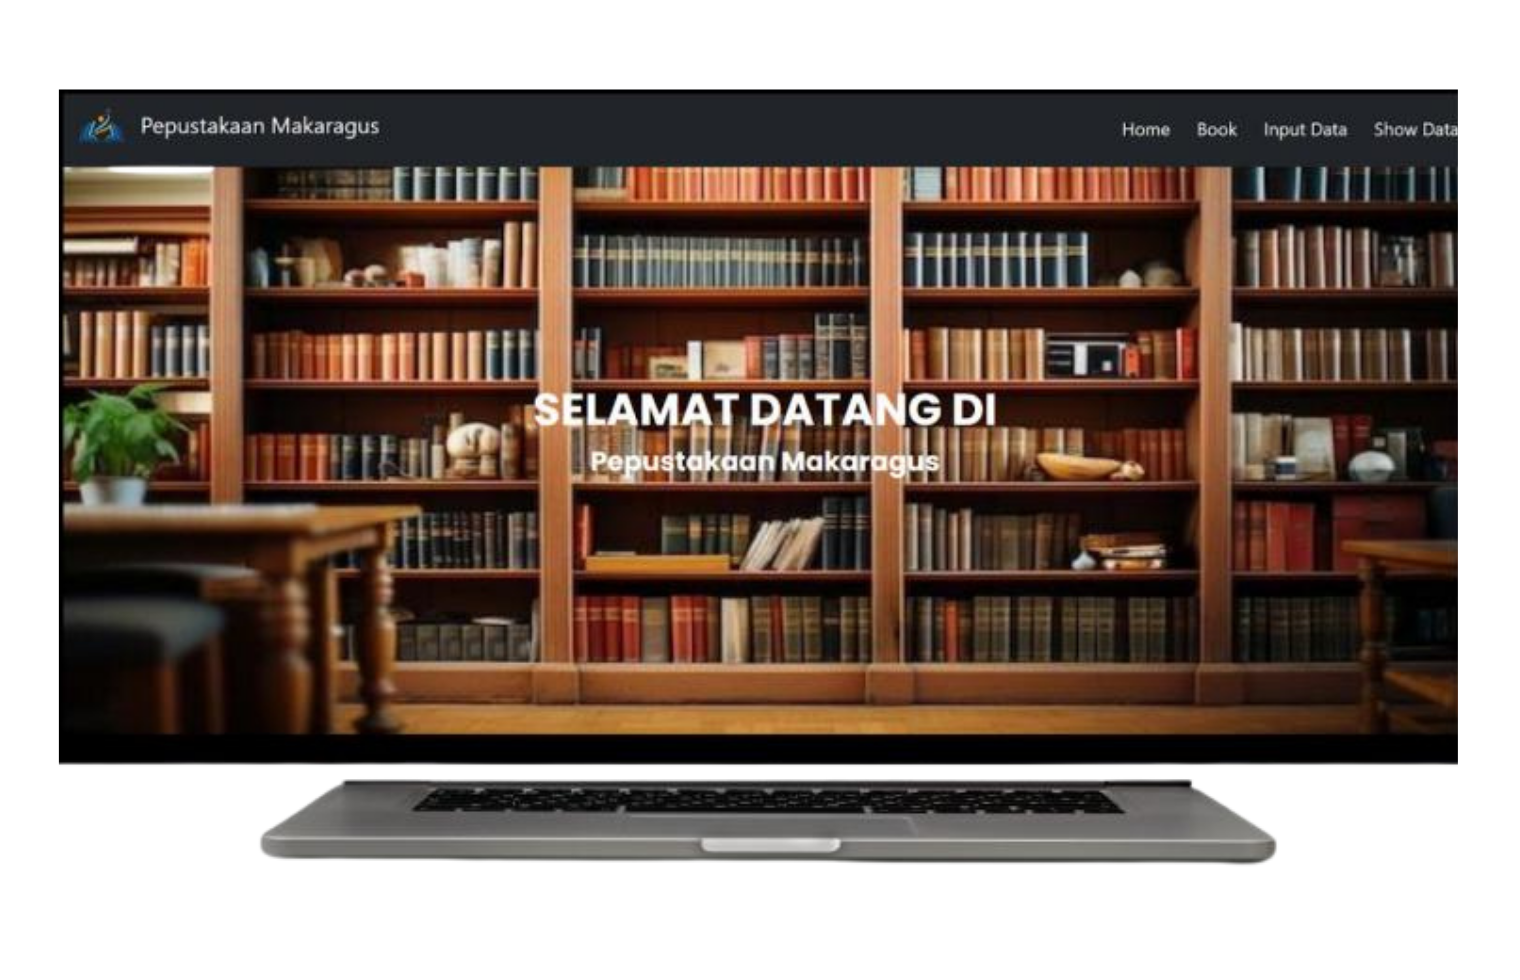
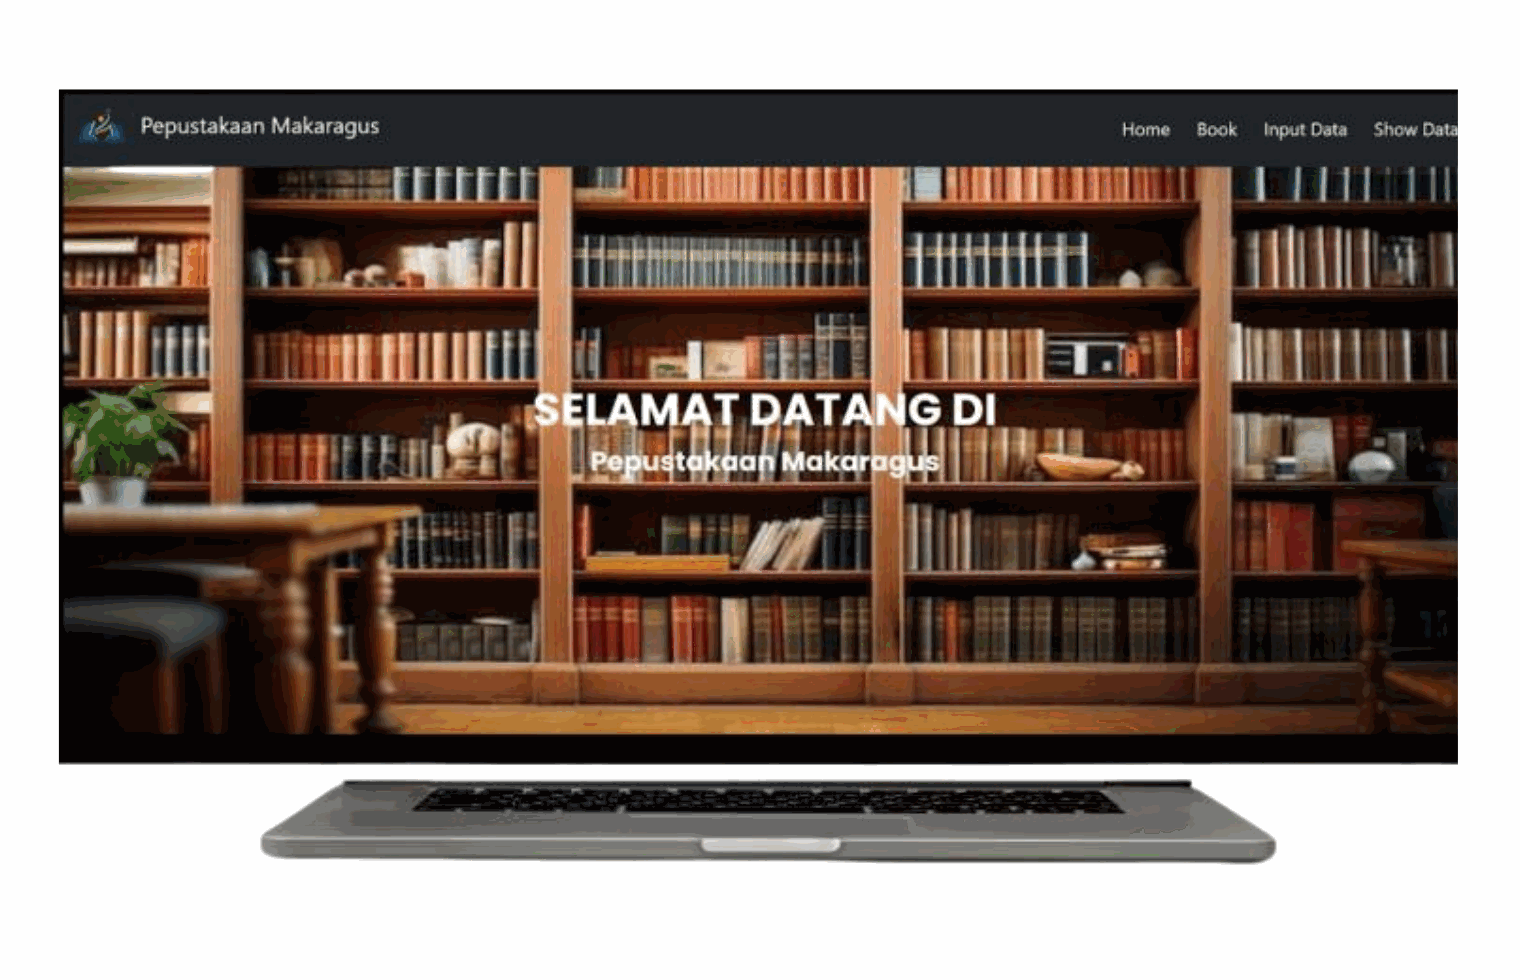
fix(seo): resolve 404, remove 308 redirects, optimize title/meta, and compress large images

diff --git a/src/app/[slug]/page.tsx b/src/app/[slug]/page.tsx
@@ -44,19 +44,19 @@ export async function generateMetadata({ params }: PageProps): Promise<Metadata>
     const titleText = data.title_en || data.title;
     const typeText = data.type_en || data.type;
     return {
-      title: `${titleText} | Khairan Noor Fadhlillah - AI, DevOps & Engineering`,
-      description: `In-depth architectural analysis of ${titleText} (${typeText}), engineered by Khairan Noor Fadhlillah with specialized AI algorithms, cloud DevOps automation, and robust system designs.`,
+      title: titleText,
+      description: `Architectural analysis of ${titleText}, engineered by Khairan Noor Fadhlillah with custom AI workflows, cloud DevOps pipelines, and modern system design.`,
       openGraph: {
-        title: `${titleText} | Khairan Noor Fadhlillah - AI, DevOps & Engineering`,
-        description: `Explore the code architecture, CI/CD pipelines, and custom designs of ${titleText} built by Khairan Noor Fadhlillah.`,
+        title: `${titleText} | Khairan Noor Fadhlillah`,
+        description: `Explore code architecture, DevOps pipelines, and designs of ${titleText} by Khairan Noor Fadhlillah.`,
         type: "article",
         url: `https://khairan.tech/${slug}`,
         siteName: "Khairan Noor Fadhlillah Portfolio",
       },
       twitter: {
         card: "summary_large_image",
-        title: `${titleText} | Khairan Noor Fadhlillah Showcase`,
-        description: `In-depth architectural analysis of ${titleText} (${typeText}), engineered by Khairan Noor Fadhlillah with specialized AI algorithms and cloud DevOps automation.`,
+        title: `${titleText} | Khairan Noor Fadhlillah`,
+        description: `Architectural analysis and implementation details of ${titleText}.`,
       }
     };
   } catch {

diff --git a/src/app/page.tsx b/src/app/page.tsx
@@ -780,12 +780,13 @@ export default function Home() {
                   const desc = lang === "en" ? (item.description_en || item.description) : (item.description_id || item.description);
                   const title = lang === "en" ? (item.title_en || item.title) : (item.title_id || item.title);
                   const { cleanDesc, tags } = parseTechStack(desc);
+                  const itemLink = item.link ? item.link.replace(/\/+$/, '') : `/${item.slug}`;
                   return (
                     <div 
                       key={item.slug || i} 
                       className="group glass-panel glass-panel-hover rounded-3xl overflow-hidden flex flex-col border border-white/5 relative"
                     >
-                      <a href={item.link} className="absolute inset-0 z-20" aria-label={`View details of ${title}`}></a>
+                      <a href={itemLink} className="absolute inset-0 z-20" aria-label={`View details of ${title}`}></a>
                       <div className="w-full aspect-[1024/660] overflow-hidden border-b border-white/5 relative bg-white/[0.003]">
                         <Image 
                           src={item.image} 

diff --git a/src/app/layout.tsx b/src/app/layout.tsx
@@ -29,10 +29,10 @@ export const viewport: Viewport = {
 export const metadata: Metadata = {
   metadataBase: new URL("https://khairan.tech"),
   title: {
-    default: "Khairan Noor Fadhlillah | AI, DevOps, & Software Engineering Expert Portfolio",
+    default: "Khairan Noor Fadhlillah | AI & DevOps Engineer Portfolio",
     template: "%s | Khairan Noor Fadhlillah"
   },
-  description: "Explore the professional portfolio of Khairan Noor Fadhlillah, an elite specialist in Artificial Intelligence systems, DevOps automation pipelines, cloud architecture, and modern full-stack software engineering based in Indonesia.",
+  description: "Portfolio of Khairan Noor Fadhlillah: Specialist in autonomous AI agents, DevOps cloud pipelines, and modern full-stack engineering based in Indonesia.",
   keywords: [
     "Khairan Noor Fadhlillah",
     "Khairan Noor Fadhlillah Portfolio",
